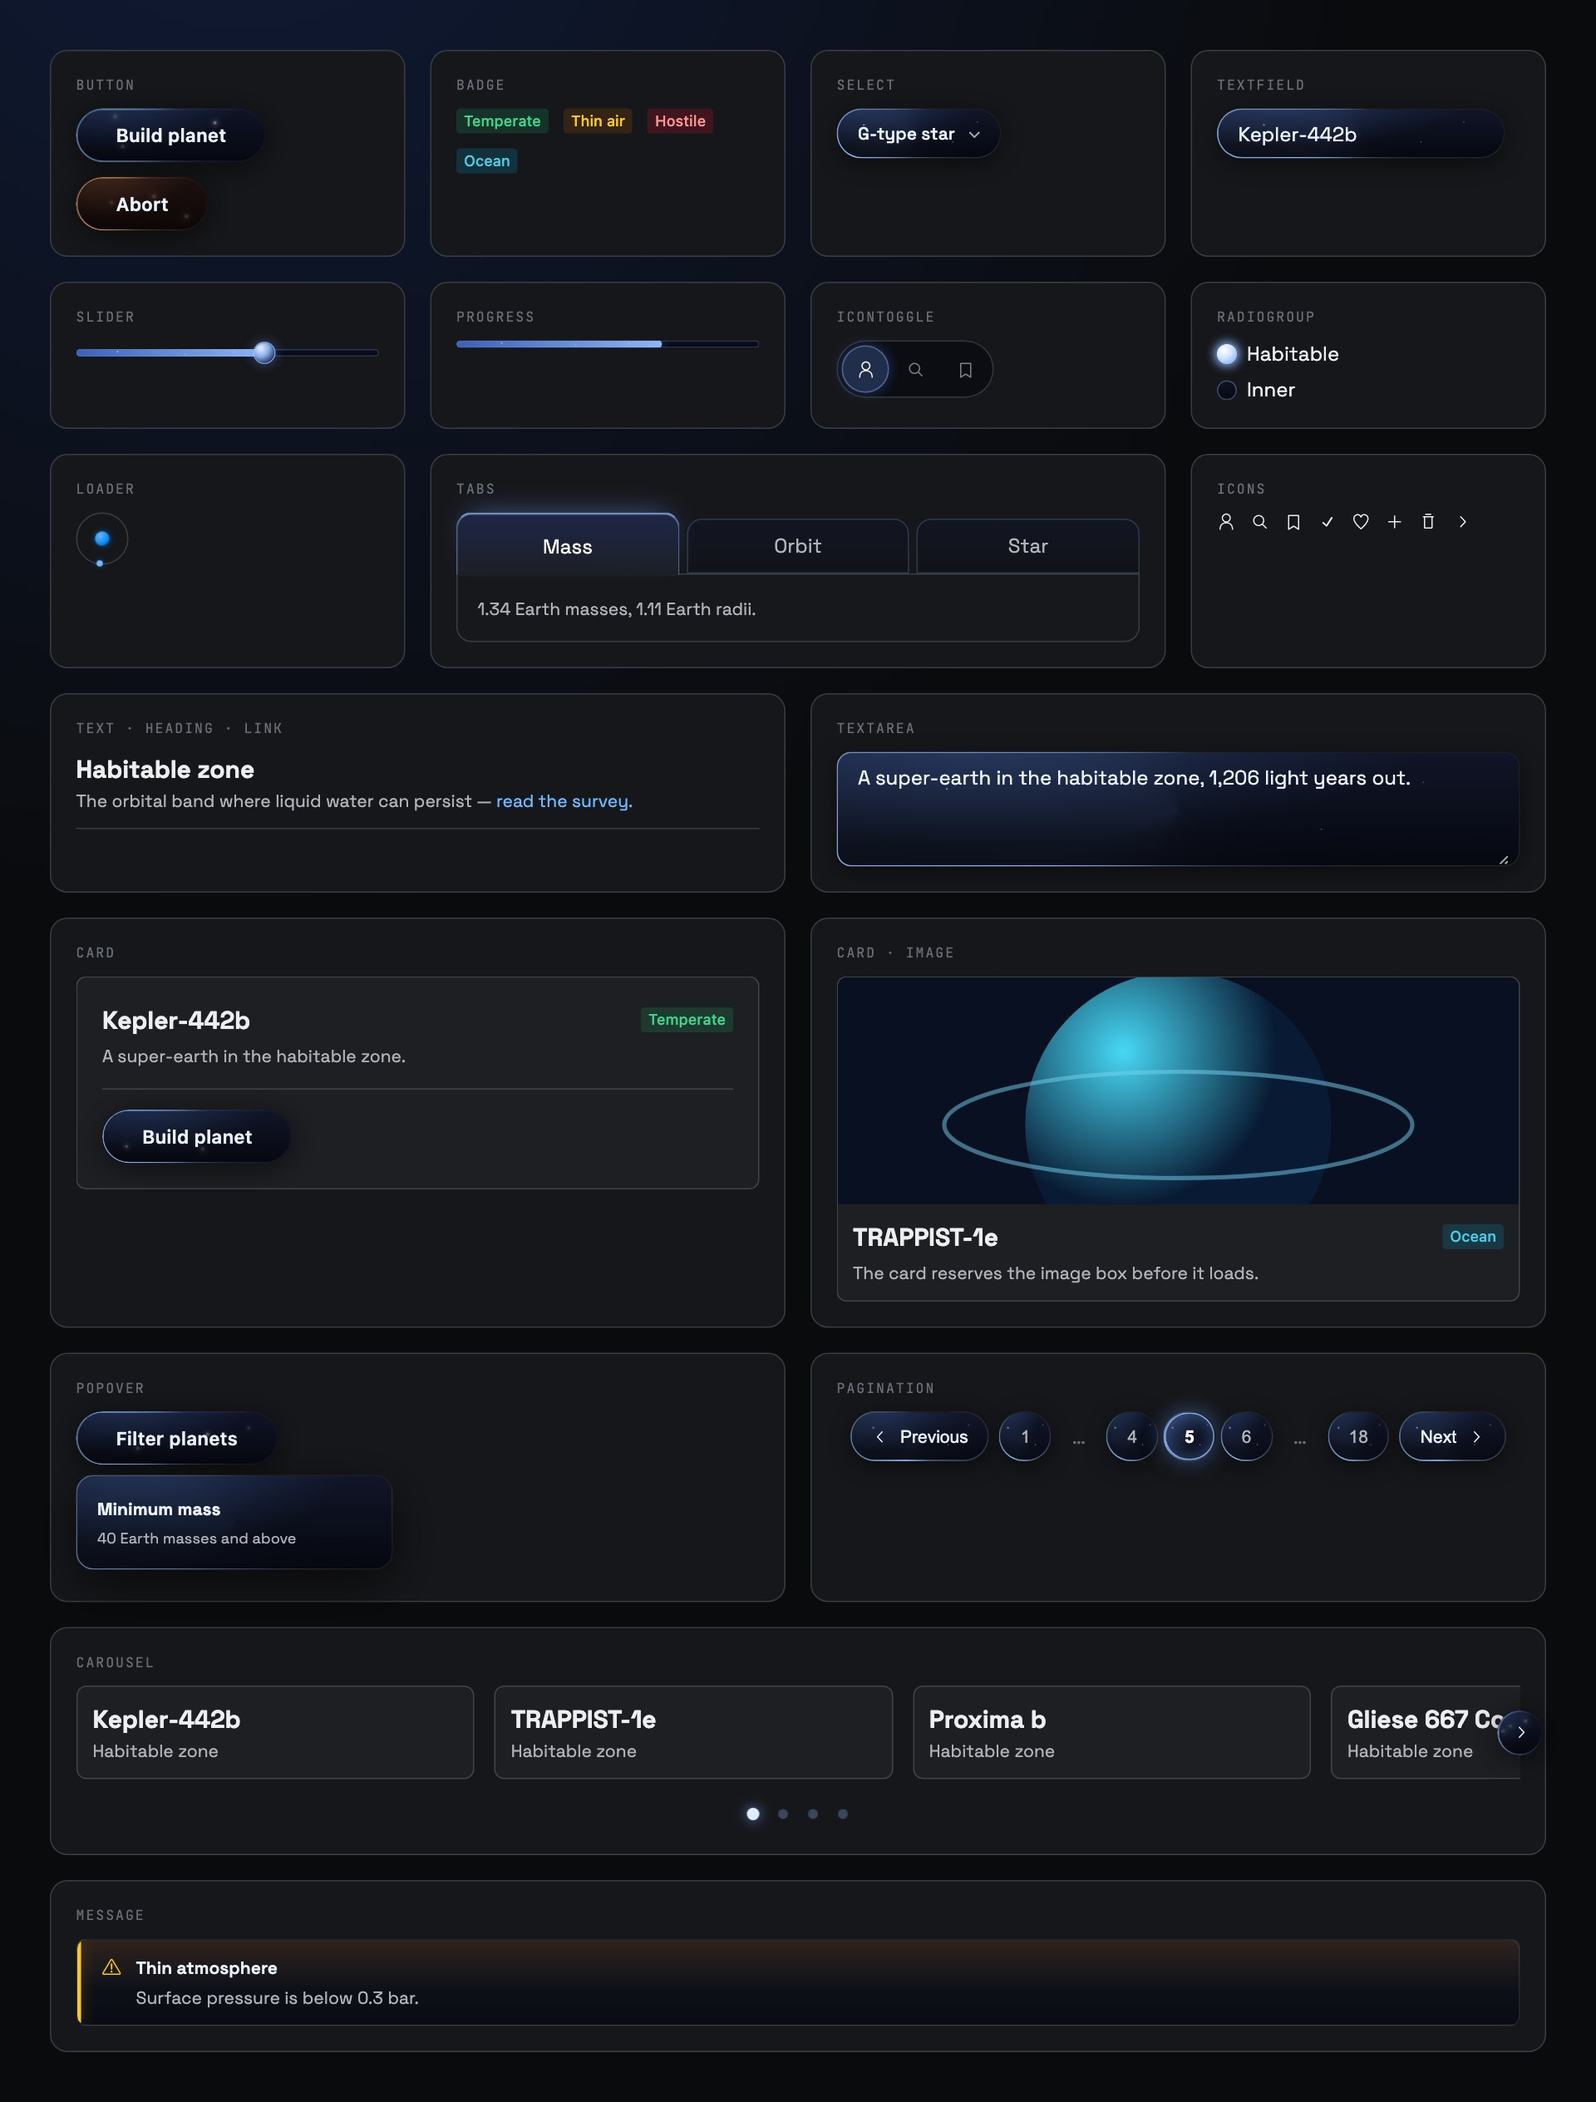
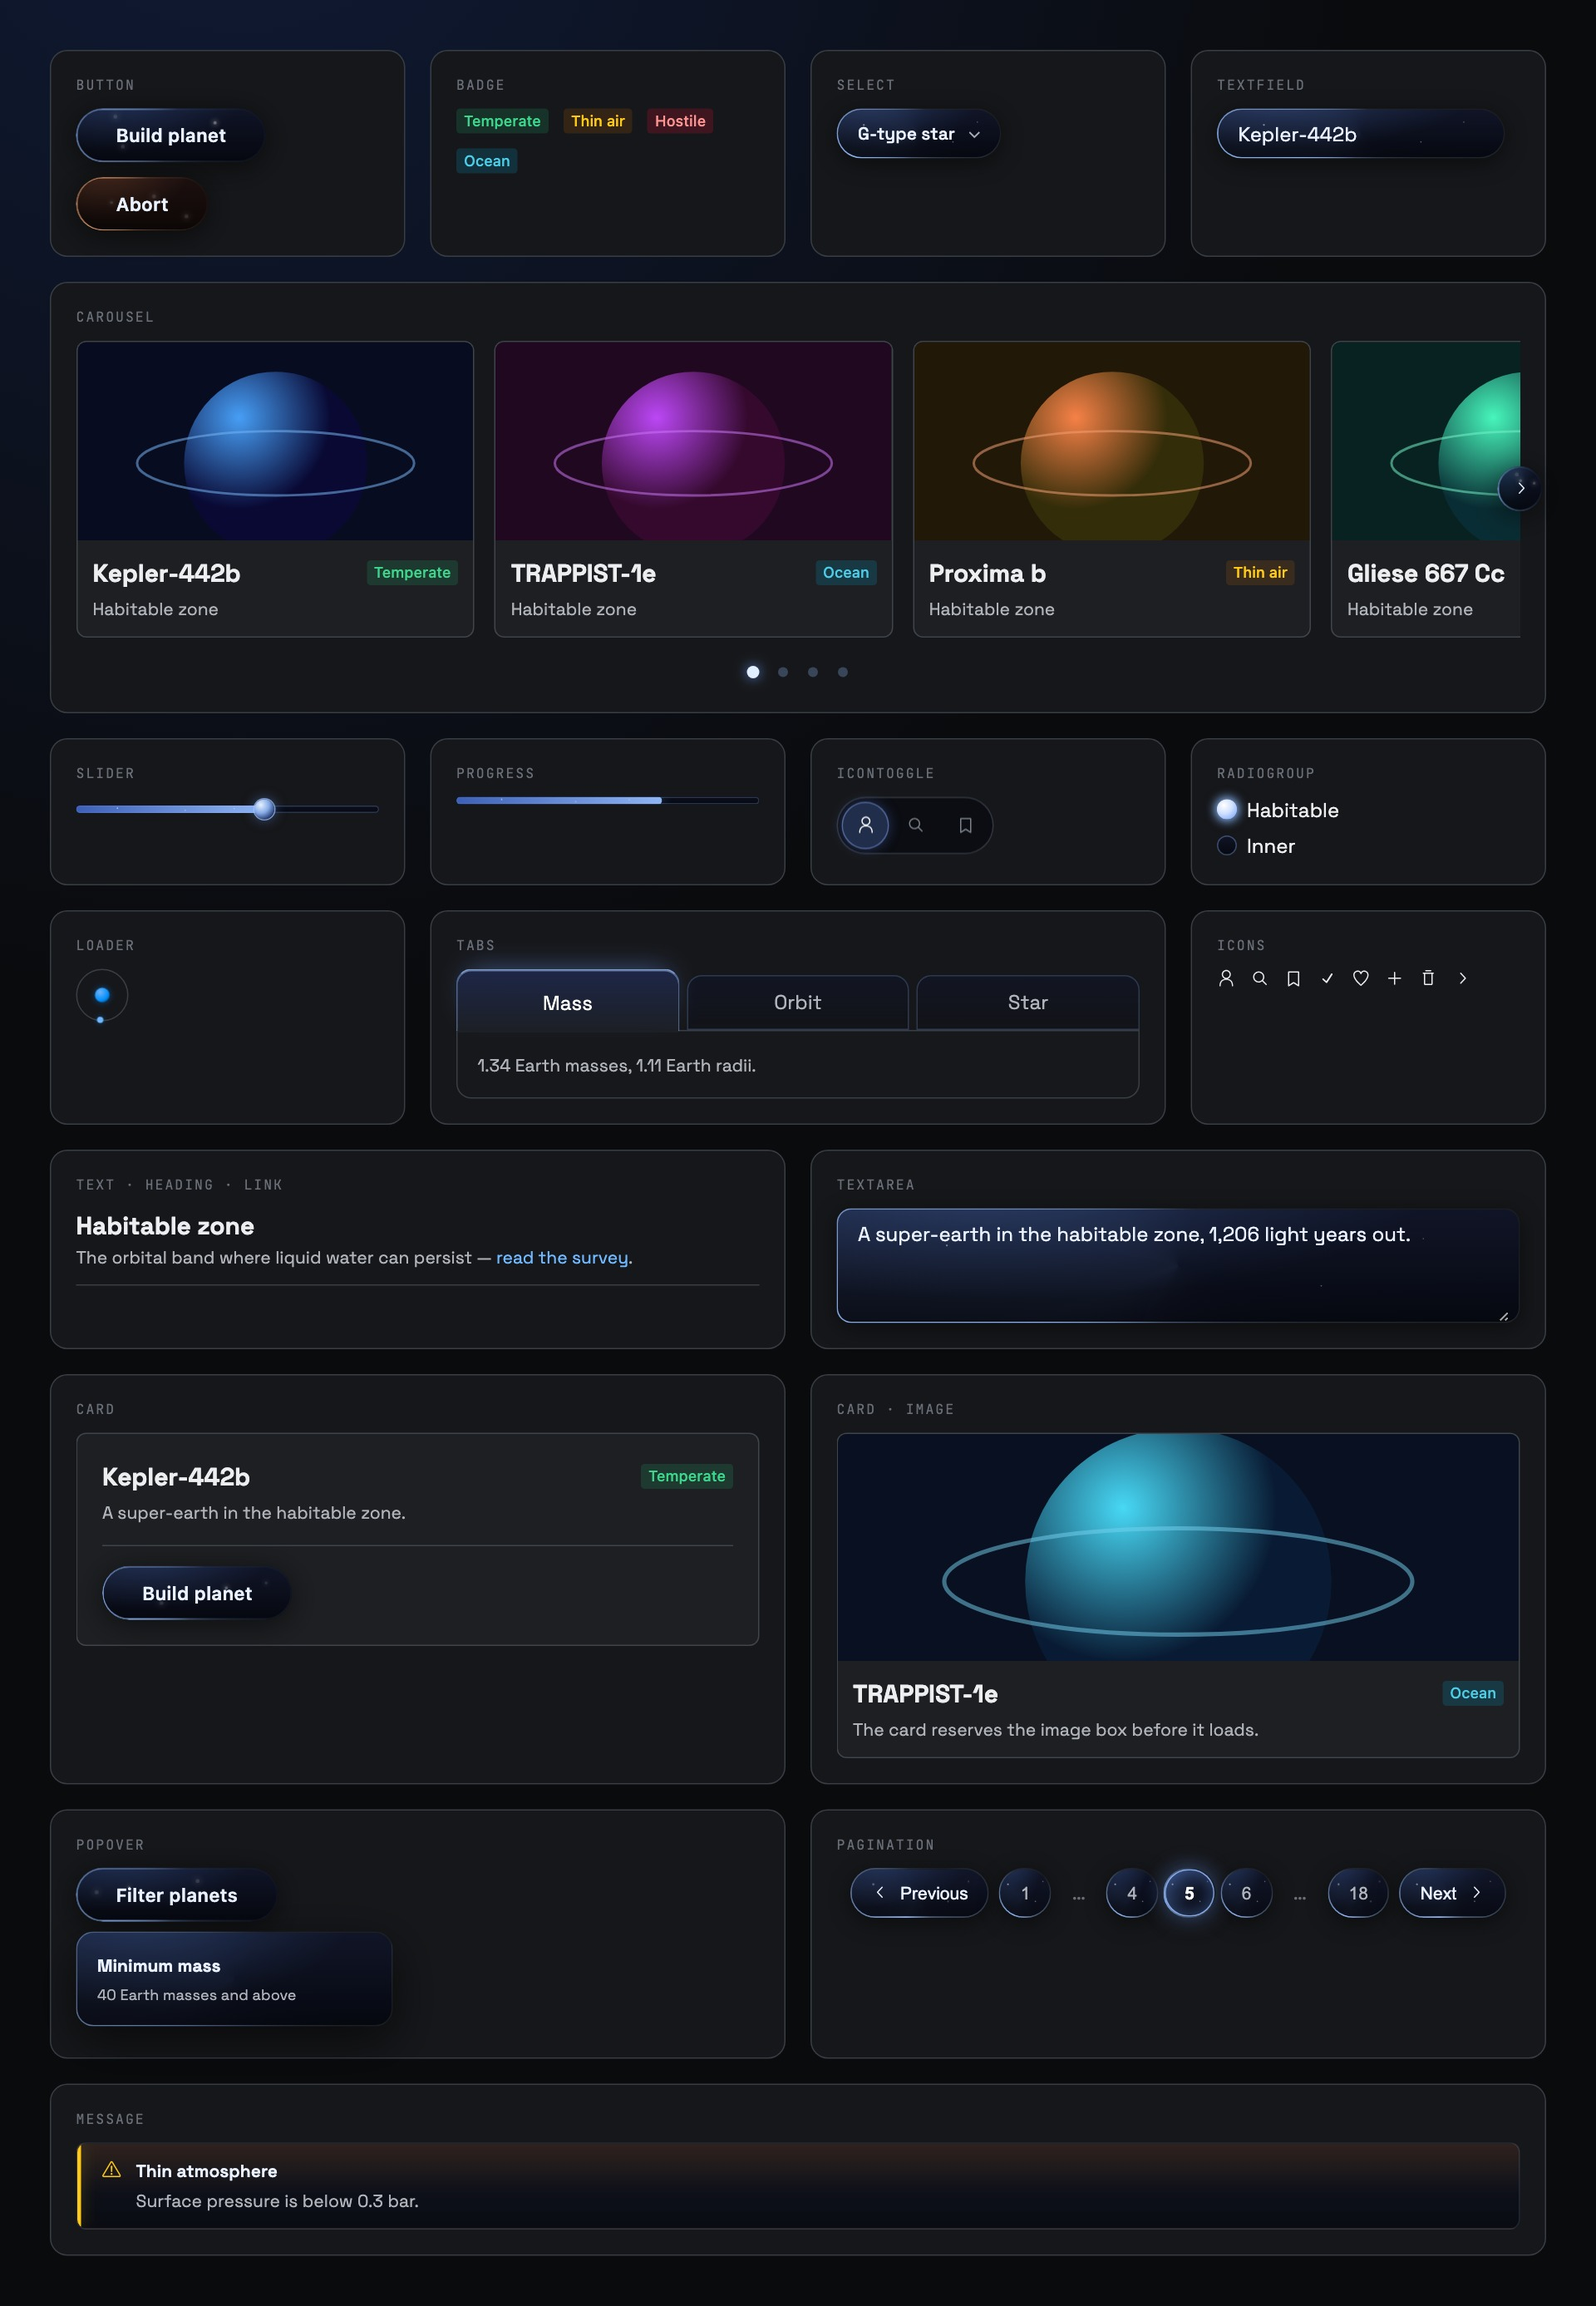
Docs: npm and GitHub links, Carousel up top on the stickersheet
Adds npm and GitHub links under the sidebar brand and at the top of the
introduction page. Folds the uneven-heights examples into the Carousel
story, moves the Carousel to the stickersheet's second row with image
cards, and shortens the Runtime deps label to Dependencies.

diff --git a/apps/docs/src/layout.stories.tsx b/apps/docs/src/layout.stories.tsx
@@ -123,6 +123,15 @@ const planetCards = PLANETS.map(([name, hue]) => (
   </Card>
 ));
 
+const BLURBS = [
+  "A temperate super-earth.",
+  "The fourth planet out from an ultra-cool dwarf, rocky and close to Earth in size and density, and among the best candidates for liquid water yet found.",
+  "Nearest known exoplanet.",
+  "Orbits the third star of a triple system. Its sky would hold two more suns, one of them bright enough to read by at night.",
+  "Tidally locked, probably.",
+  "A dense rocky world whose long, slow orbit gives an atmosphere time to survive its star's early flares.",
+];
+
 export const CarouselStory = () => (
   <div style={{ display: "grid", gap: 48 }}>
     <div style={{ display: "grid", gap: 12 }}>
@@ -147,26 +156,7 @@ export const CarouselStory = () => (
         {planetCards}
       </Carousel>
     </div>
-  </div>
-);
-CarouselStory.storyName = "Carousel";
-CarouselStory.meta = {
-  components: ["Carousel"],
-  description:
-    "A row of slides that scrolls sideways. It is a native scroller with CSS scroll snapping, so a flick on a phone uses the platform's own momentum and lands cleanly on a slide, and nothing runs per frame while it moves. With a mouse, drag the row: it follows the pointer and glides to the next slide in that direction, and a drag never clicks a link inside a slide. `perView` sets how many slides fit and takes fractions — 2.5 leaves half a slide at the edge as a cue there is more. `step` chooses whether the arrows move one slide or a page of them; in page mode a flick also lands on a page. Set `--sp-carousel-view-count` in a media query to change how many fit at a breakpoint: it overrides the prop, and the arrows and dots follow what is actually rendered.",
-};
 
-const BLURBS = [
-  "A temperate super-earth.",
-  "The fourth planet out from an ultra-cool dwarf, rocky and close to Earth in size and density, and among the best candidates for liquid water yet found.",
-  "Nearest known exoplanet.",
-  "Orbits the third star of a triple system. Its sky would hold two more suns, one of them bright enough to read by at night.",
-  "Tidally locked, probably.",
-  "A dense rocky world whose long, slow orbit gives an atmosphere time to survive its star's early flares.",
-];
-
-export const CarouselUnevenHeights = () => (
-  <div style={{ display: "grid", gap: 48 }}>
     <div style={{ display: "grid", gap: 12 }}>
       <Text size="2" color="muted">By default every card stretches to the tallest, so the row ends in one line</Text>
       <Carousel aria-label="Planets with uneven descriptions" perView={3.5} showPagination>
@@ -194,8 +184,10 @@ export const CarouselUnevenHeights = () => (
     </div>
   </div>
 );
-CarouselUnevenHeights.storyName = "Carousel uneven heights";
-CarouselUnevenHeights.meta = {
+CarouselStory.storyName = "Carousel";
+CarouselStory.meta = {
+  components: ["Carousel"],
   description:
-    "Slides with different amounts of content. Every slide is as tall as the tallest, and its content fills that height by default, so a row of cards ends in one line whatever their text. Content that should keep its own height sets `align-self: start`. The arrows stay centred on the row's full height either way.",
+    "A row of slides that scrolls sideways. It is a native scroller with CSS scroll snapping, so a flick on a phone uses the platform's own momentum and lands cleanly on a slide, and nothing runs per frame while it moves. With a mouse, drag the row: it follows the pointer and glides to the next slide in that direction, and a drag never clicks a link inside a slide. `perView` sets how many slides fit and takes fractions — 2.5 leaves half a slide at the edge as a cue there is more. `step` chooses whether the arrows move one slide or a page of them; in page mode a flick also lands on a page. Set `--sp-carousel-view-count` in a media query to change how many fit at a breakpoint: it overrides the prop, and the arrows and dots follow what is actually rendered. Slides with uneven content all take the tallest slide's height, and their content fills it, so a row of cards ends in one line; content that should keep its own height sets `align-self: start`.",
 };
+

diff --git a/apps/docs/src/stickersheet.stories.tsx b/apps/docs/src/stickersheet.stories.tsx
@@ -79,6 +79,22 @@ export const Stickersheet = () => {
           <TextField defaultValue="Kepler-442b" />
         </Cell>
 
+        {/* A premier specimen, so it sits near the top of the image. Half a
+            slide at the edge says "this scrolls" in a still picture. */}
+        <Cell label="Carousel" full>
+          <Carousel aria-label="Planets" perView={3.5} showPagination>
+            {SHEET_PLANETS.map(([name, hue, badge, color]) => (
+              <Card key={name} image={<PlanetThumb hue={hue} />} className="docs-sheet__slide">
+                <div className="docs-demo__head">
+                  <Heading size="5">{name}</Heading>
+                  <Badge color={color}>{badge}</Badge>
+                </div>
+                <Text size="2" color="muted">Habitable zone</Text>
+              </Card>
+            ))}
+          </Carousel>
+        </Cell>
+
         <Cell label="Slider">
           <Slider value={mass} onValueChange={setMass} min={0} max={100} step={1} />
         </Cell>
@@ -194,18 +210,6 @@ export const Stickersheet = () => {
           <Pagination pagination={{ page: 5, pageSize: 10, totalItems: 180 }} onPageClick={() => {}} />
         </Cell>
 
-        {/* Half a slide at the edge, so the still image says "this scrolls". */}
-        <Cell label="Carousel" full>
-          <Carousel aria-label="Planets" perView={3.5} showPagination>
-            {["Kepler-442b", "TRAPPIST-1e", "Proxima b", "Gliese 667 Cc", "Kepler-186f", "K2-18b"].map((name) => (
-              <Card key={name}>
-                <Heading size="5">{name}</Heading>
-                <Text size="2" color="muted">Habitable zone</Text>
-              </Card>
-            ))}
-          </Carousel>
-        </Cell>
-
         <Cell label="Message" full>
           <Message variant="warning" title="Thin atmosphere">
             Surface pressure is below 0.3 bar.
@@ -274,3 +278,28 @@ Stickersheet.meta = {
   components: [],
   source: false,
 };
+
+const SHEET_PLANETS = [
+  ["Kepler-442b", 210, "Temperate", "success"],
+  ["TRAPPIST-1e", 280, "Ocean", "cyan"],
+  ["Proxima b", 20, "Thin air", "warning"],
+  ["Gliese 667 Cc", 160, "Temperate", "success"],
+  ["Kepler-186f", 120, "Hostile", "danger"],
+  ["K2-18b", 190, "Ocean", "cyan"],
+] as const;
+
+/** A planet per slide, each its own hue, so the row reads as a collection. */
+const PlanetThumb = ({ hue }: { hue: number }) => (
+  <svg viewBox="0 0 320 200" preserveAspectRatio="xMidYMid slice" aria-hidden="true">
+    <defs>
+      <radialGradient id={`sheetPlanet${hue}`} cx="30%" cy="25%">
+        <stop offset="0%" stopColor={`hsl(${hue} 90% 62%)`} />
+        <stop offset="100%" stopColor={`hsl(${hue + 30} 70% 12%)`} />
+      </radialGradient>
+    </defs>
+    <rect width="320" height="200" fill={`hsl(${hue + 20} 60% 8%)`} />
+    <circle cx="160" cy="118" r="74" fill={`url(#sheetPlanet${hue})`} />
+    <ellipse cx="160" cy="118" rx="112" ry="26" fill="none"
+             stroke={`hsl(${hue} 80% 70% / 0.55)`} strokeWidth="2" />
+  </svg>
+);

diff --git a/apps/docs/.ladle/space.css b/apps/docs/.ladle/space.css
@@ -167,6 +167,74 @@ nav.ladle-aside {
   letter-spacing: 0.02em;
 }
 
+/* Where to get it: npm and GitHub, at the top of the sidebar and the
+   introduction page. Quiet pills — findable at a glance, never louder than
+   the brand or the hero's own call to action. */
+.docs-links {
+  display: flex;
+  flex-wrap: wrap;
+  gap: 8px;
+}
+
+.docs-links--sidebar {
+  margin-top: 16px;
+}
+
+.docs-links--sidebar .docs-links__link {
+  flex: 1 1 0;
+  justify-content: center;
+}
+
+/* The sidebar is too narrow for the version, and its status line just below
+   already reads "v… on npm". */
+.docs-links--sidebar .docs-links__meta {
+  display: none;
+}
+
+.docs-links--hero {
+  margin-bottom: 24px;
+}
+
+.docs-links__link {
+  display: inline-flex;
+  align-items: center;
+  gap: 8px;
+  padding: 6px 12px;
+  border: 1px solid var(--docs-hairline);
+  border-radius: 999px;
+  background: var(--docs-raised);
+  color: var(--docs-text);
+  font-family: var(--docs-font-display);
+  font-size: 13px;
+  font-weight: 600;
+  text-decoration: none;
+  white-space: nowrap;
+  transition: border-color 0.18s ease, background 0.18s ease;
+}
+
+.docs-links__link:hover {
+  border-color: var(--docs-terminator);
+  background: #0090ff14;
+}
+
+.docs-links__link:focus-visible {
+  outline: 2px solid var(--docs-terminator);
+  outline-offset: 2px;
+}
+
+.docs-links__icon {
+  width: 14px;
+  height: 14px;
+  flex: none;
+}
+
+.docs-links__meta {
+  font-family: var(--docs-font-mono);
+  font-size: 11px;
+  font-weight: 400;
+  color: var(--docs-readout);
+}
+
 /* Telemetry: real, counted-at-runtime facts about the library.
    Structural, not decorative — the release status in particular
    is the single most important thing a visitor needs to know. */
@@ -2202,6 +2270,12 @@ nav.ladle-aside a:focus-visible {
   .docs-carousel--responsive {
     --sp-carousel-view-count: 4;
   }
+}
+
+/* The stickersheet carousel's cards: a shorter crop than the default, so a
+   full-width row of them stays a band rather than a wall. */
+.docs-sheet__slide {
+  --sp-card-image-ratio: 2 / 1;
 }
 
 /* The stickersheet's media card spans two columns, where the default 16/10

diff --git a/apps/docs/src/docs-links.tsx b/apps/docs/src/docs-links.tsx
@@ -1,0 +1,27 @@
+import { isPublished, npmUrl, repoUrl, version } from "./system-facts";
+
+/**
+ * Where to get the package: npm, and the source on GitHub. Shown at the top
+ * of the sidebar and of the introduction page, the two places a visitor looks
+ * first for "where do I install this".
+ */
+export const PackageLinks = ({ className = "" }: { className?: string }) => (
+  <div className={`docs-links ${className}`.trim()}>
+    <a className="docs-links__link" href={npmUrl} target="_blank" rel="noreferrer">
+      <svg className="docs-links__icon" viewBox="0 0 16 16" aria-hidden="true">
+        <path fill="currentColor" d="M0 0v16h16V0H0zm13 13h-2V5H8v8H3V3h10v10z" />
+      </svg>
+      <span>npm</span>
+      {isPublished && <span className="docs-links__meta">v{version}</span>}
+    </a>
+    <a className="docs-links__link" href={repoUrl} target="_blank" rel="noreferrer">
+      <svg className="docs-links__icon" viewBox="0 0 16 16" aria-hidden="true">
+        <path
+          fill="currentColor"
+          d="M8 0C3.58 0 0 3.58 0 8c0 3.54 2.29 6.53 5.47 7.59.4.07.55-.17.55-.38 0-.19-.01-.82-.01-1.49-2.01.37-2.53-.49-2.69-.94-.09-.23-.48-.94-.82-1.13-.28-.15-.68-.52-.01-.53.63-.01 1.08.58 1.23.82.72 1.21 1.87.87 2.33.66.07-.52.28-.87.51-1.07-1.78-.2-3.64-.89-3.64-3.95 0-.87.31-1.59.82-2.15-.08-.2-.36-1.02.08-2.12 0 0 .67-.21 2.2.82.64-.18 1.32-.27 2-.27.68 0 1.36.09 2 .27 1.53-1.04 2.2-.82 2.2-.82.44 1.1.16 1.92.08 2.12.51.56.82 1.27.82 2.15 0 3.07-1.87 3.75-3.65 3.95.29.25.54.73.54 1.48 0 1.07-.01 1.93-.01 2.2 0 .21.15.46.55.38A8.013 8.013 0 0016 8c0-4.42-3.58-8-8-8z"
+        />
+      </svg>
+      <span>GitHub</span>
+    </a>
+  </div>
+);

diff --git a/apps/docs/.ladle/components.tsx b/apps/docs/.ladle/components.tsx
@@ -8,6 +8,7 @@ import {
 } from "virtual:space-docs";
 import { storySource, stories } from "virtual:generated-list";
 import { Code } from "../src/docs-code";
+import { PackageLinks } from "../src/docs-links";
 import "@inkorange/space-ui/tokens.css";
 import "./space.css";
 import {
@@ -66,6 +67,8 @@ const Brand = () => (
       </span>
     </a>
 
+    <PackageLinks className="docs-links--sidebar" />
+
     <div className="docs-telemetry">
       <div className="docs-telemetry__cell">
         <div className="docs-telemetry__value">{componentCount}</div>
@@ -77,7 +80,7 @@ const Brand = () => (
       </div>
       <div className="docs-telemetry__cell">
         <div className="docs-telemetry__value">0</div>
-        <div className="docs-telemetry__label">Runtime deps</div>
+        <div className="docs-telemetry__label">Dependencies</div>
       </div>
       <div className="docs-telemetry__cell">
         <div className="docs-telemetry__value">19</div>

diff --git a/apps/docs/src/overview.stories.tsx b/apps/docs/src/overview.stories.tsx
@@ -1,4 +1,5 @@
 import { useState, type CSSProperties } from "react";
+import { PackageLinks } from "./docs-links";
 import {
   Badge,
   Card,
@@ -290,6 +291,8 @@ export const Introduction = () => (
 
       <div className="docs-hero__grid">
         <div className="docs-hero__copy">
+          <PackageLinks className="docs-links--hero docs-rise" />
+
           <div
             className="docs-hero__eyebrow docs-rise"
             style={{ animationDelay: "40ms" }}

diff --git a/apps/docs/src/system-facts.ts b/apps/docs/src/system-facts.ts
@@ -54,3 +54,4 @@ export const coveragePct = measured.coverageStatementsPct;
 
 export const packageName = "@inkorange/space-ui";
 export const repoUrl = "https://github.com/inkorange/space-ui";
+export const npmUrl = `https://www.npmjs.com/package/${packageName}`;
